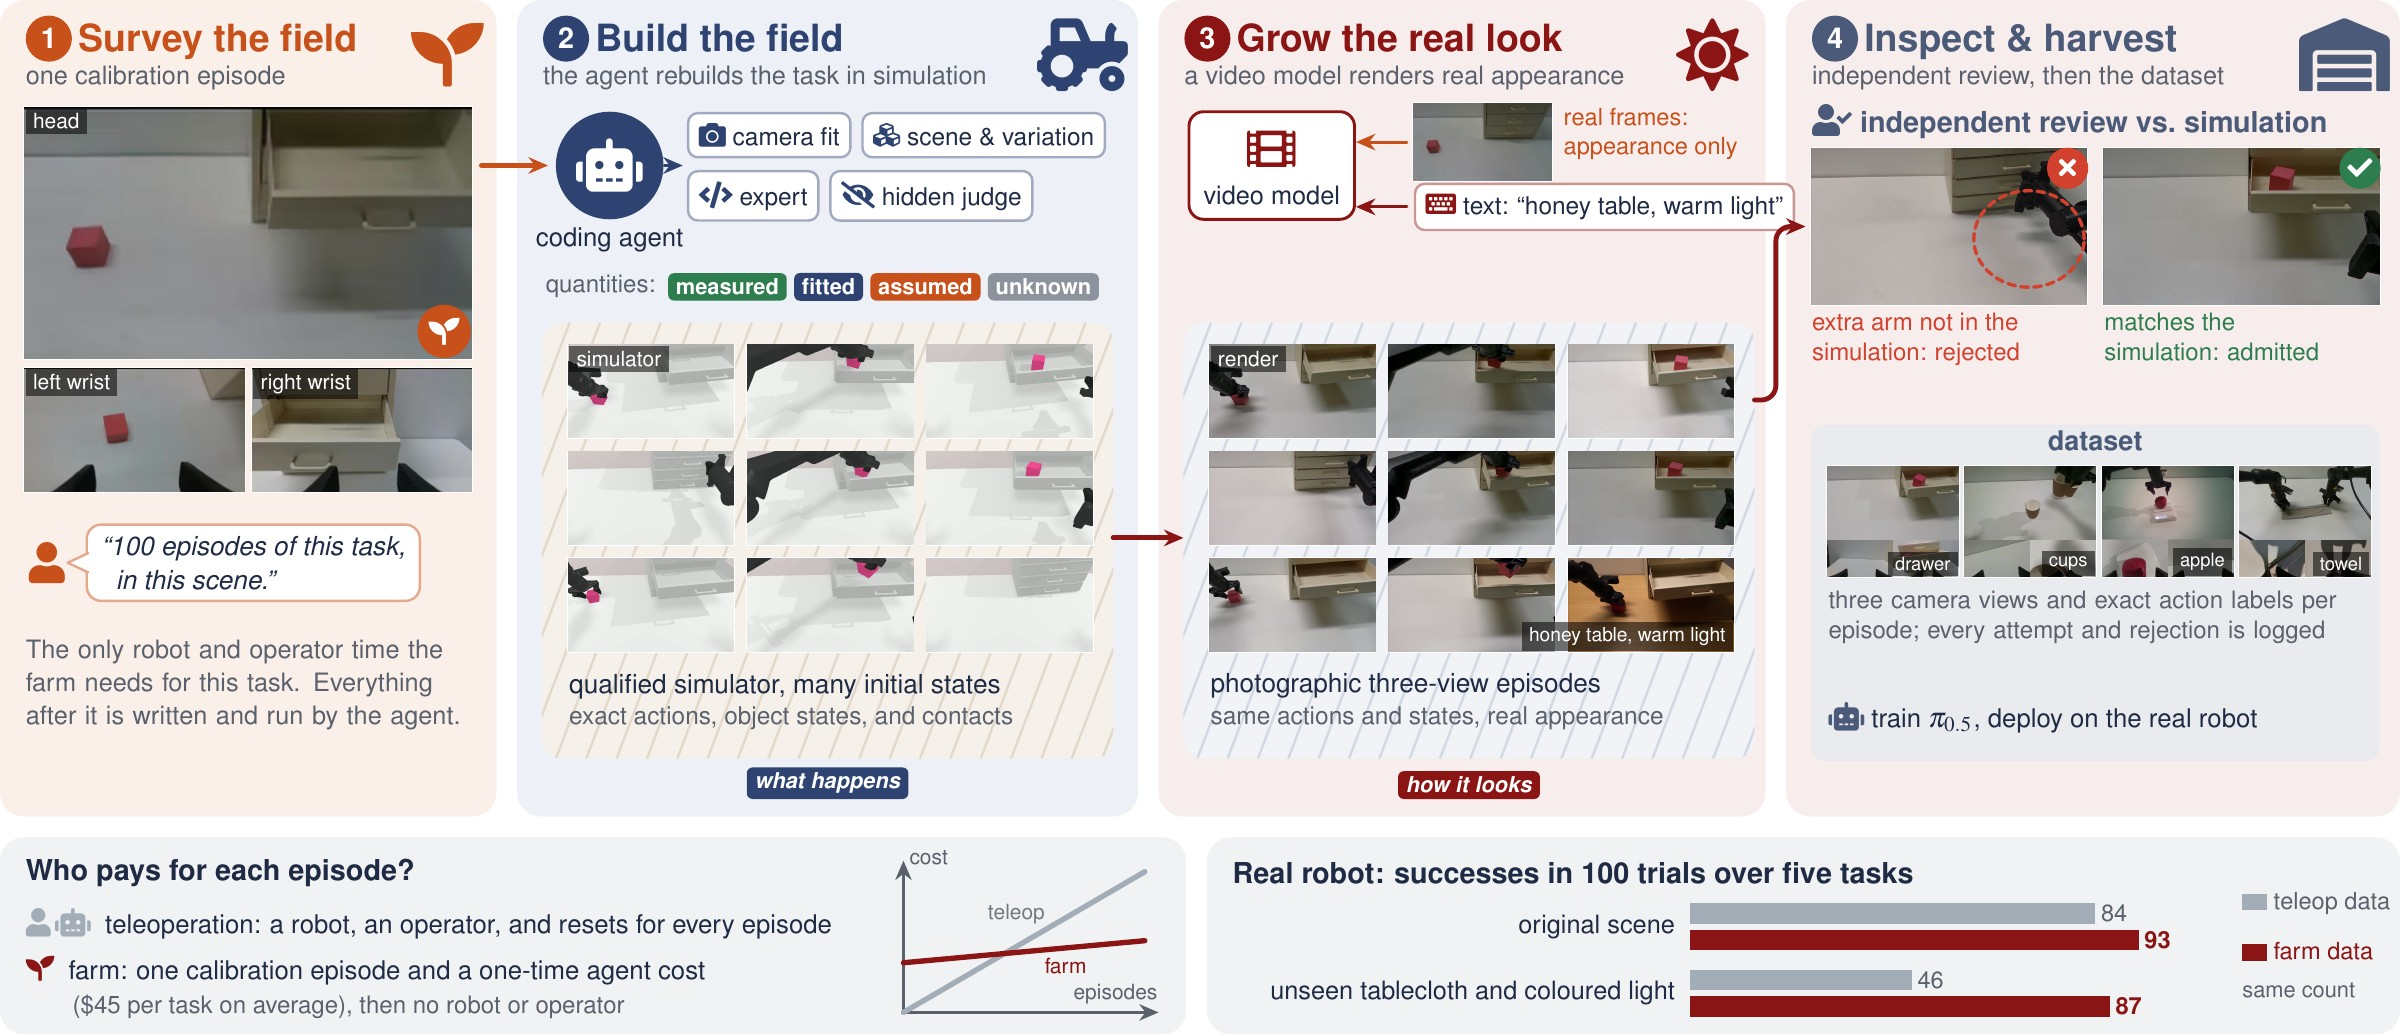
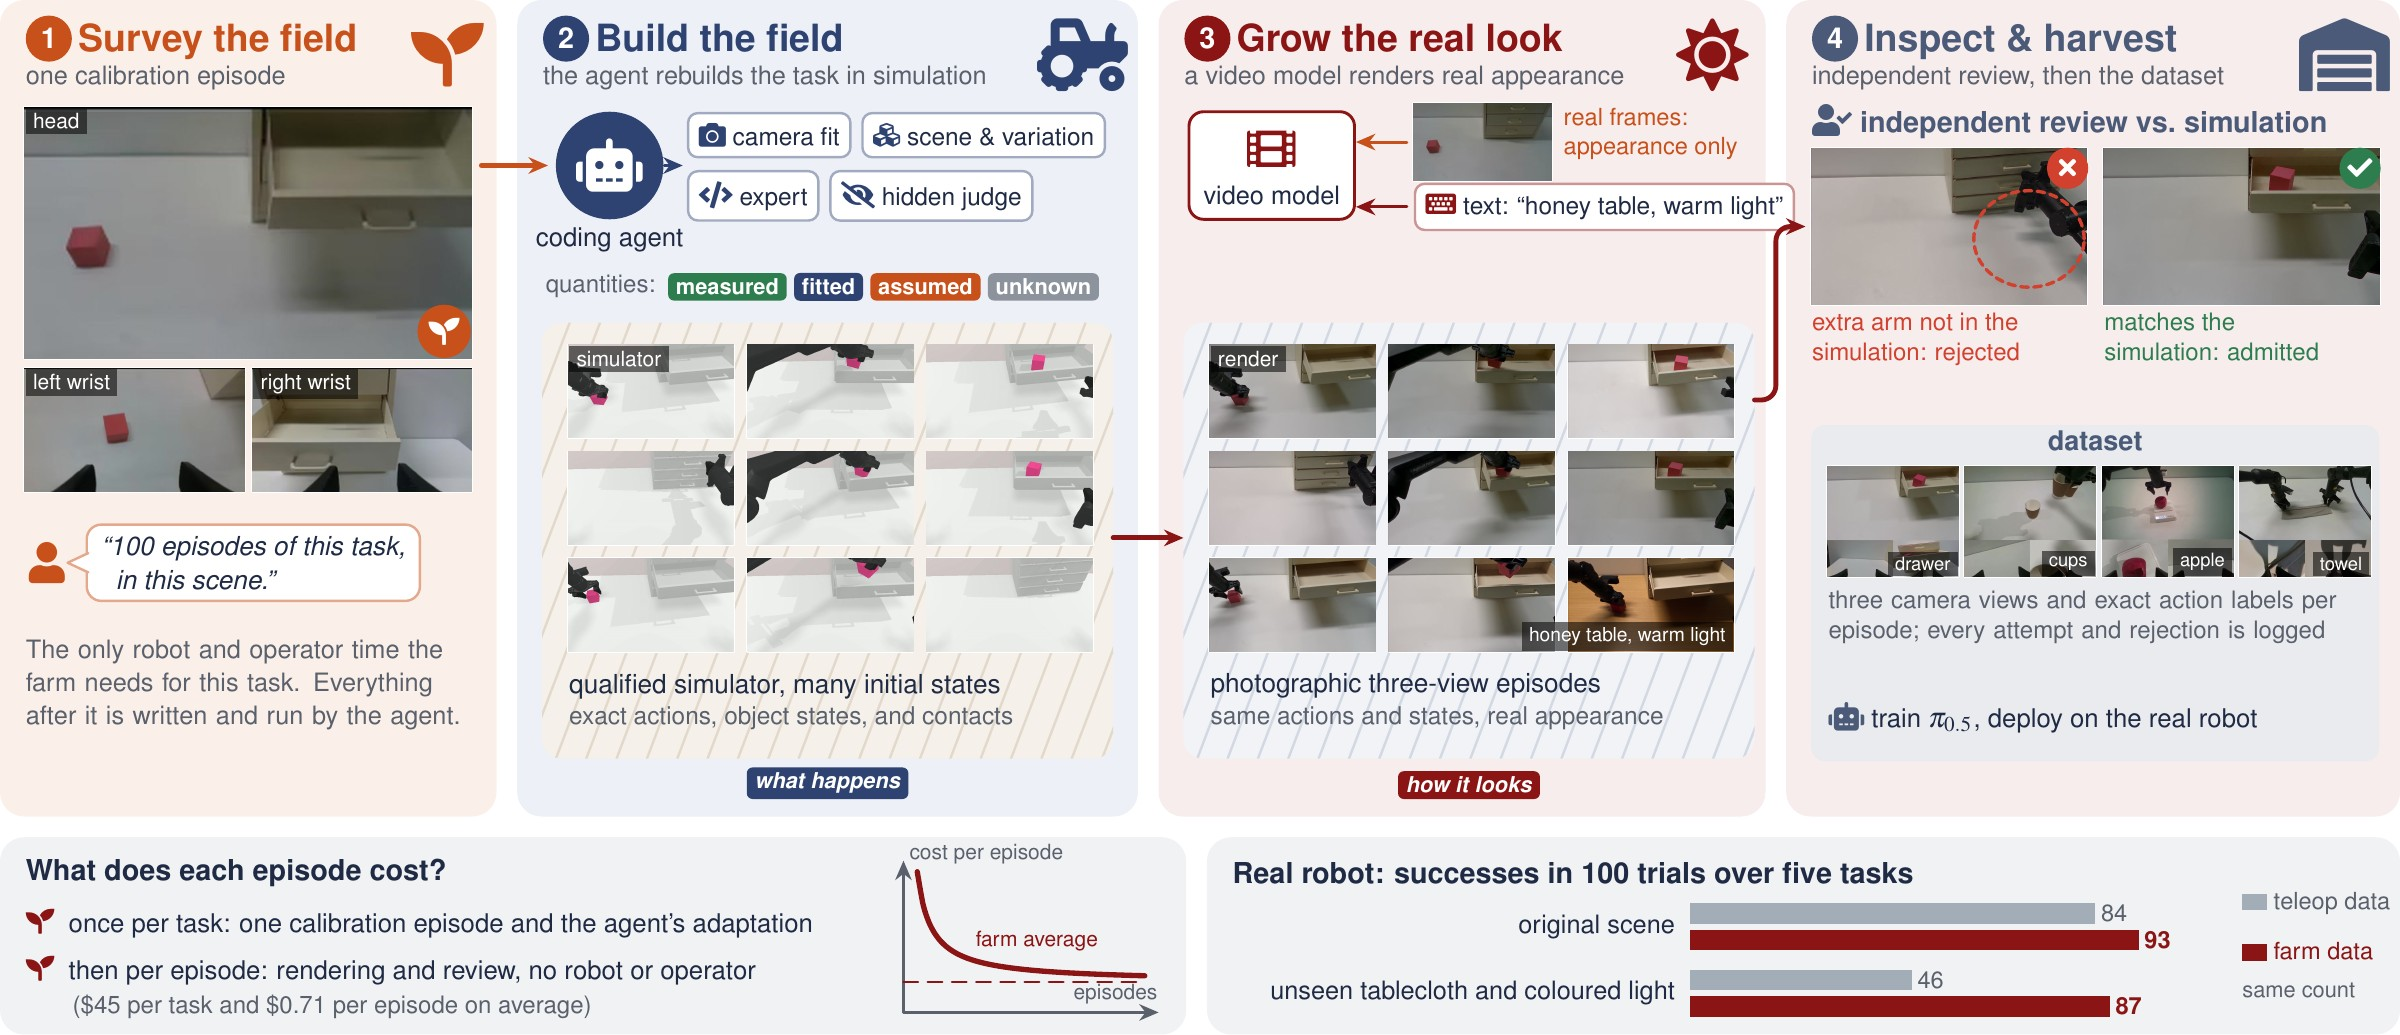
Abstract and cost section as in the paper (r2s2v-paper ba79d47)

Changed region(s): [[0.0, 0.8348, 0.3438, 0.9894], [0.375, 0.8657, 0.4688, 0.9894], [0.375, 0.8039, 0.4375, 0.8348]]

diff --git a/index.html b/index.html
@@ -371,30 +371,32 @@
   <div class="wrap">
     <div class="sec-head rv">
       <span class="kicker">Cost</span>
-      <h2>Pay once per task, not once per episode</h2>
-      <p>Teleoperation pays an operator for every episode and restages for every new tablecloth or light. The farm pays once to adapt a task, then only for rendering and review; a new appearance is a text change.</p>
+      <h2>Pay once per task, then only for rendering and review</h2>
+      <p>The farm pays once to adapt a task, with no person in the loop, then only for rendering and review of each episode; a new appearance is a text change. The farm's figures below are measured; the teleoperation figures are labour in North America and a quote from China.</p>
     </div>
     <div class="cost-cards">
       <div class="cc rv"><span class="cc-k">One-time, per task</span><span class="cc-v">$45</span><span class="cc-t">mean agent cost to adapt a task ($38&ndash;57 over five tasks), no human intervention</span></div>
-      <div class="cc rv"><span class="cc-k">Per farm episode</span><span class="cc-v">$1.27</span><span class="cc-t">mean marginal cost of an admitted episode: rendering, re-rendering, review</span></div>
-      <div class="cc muted rv"><span class="cc-k">Teleoperation, measured</span><span class="cc-v">$1.53</span><span class="cc-t">per episode from our collection log ($0.58&ndash;2.07); $2.09 with restaging for new appearance</span></div>
-      <div class="cc rv"><span class="cc-k">Farm pulls ahead after</span><span class="cc-v">&asymp;180</span><span class="cc-t">episodes of a task on average, or &asymp;60 when the data must cover new appearance</span></div>
+      <div class="cc rv"><span class="cc-k">Per farm episode</span><span class="cc-v">$0.71</span><span class="cc-t">mean marginal cost of an admitted episode ($0.18&ndash;1.27): rendering, re-rendering, review</span></div>
+      <div class="cc rv"><span class="cc-k">Average at 100 episodes</span><span class="cc-v">$1.16</span><span class="cc-t">per episode, one-time cost included ($0.57&ndash;1.84 over five tasks); $0.75 at 1,000. One hour of three-view data per task: $114, against a $117 quote in China and $290* of labour in North America</span></div>
+      <div class="cc rv"><span class="cc-k">New appearance</span><span class="cc-v">+$0</span><span class="cc-t">a new tablecloth or light is a text change in the render request: same cost per episode</span></div>
     </div>
     <div class="cost-row">
       <div class="cost-chart rv" id="cost-chart"><div class="cost-read" id="cost-read"></div></div>
       <div class="tcard rv">
         <table class="tbl">
-          <thead><tr><th>Task</th><th>One-time</th><th>Farm / ep.</th><th>Break-even<br>N=100</th><th>Teleop<br>original</th><th>Teleop<br>new look</th></tr></thead>
+          <thead><tr><th>Task</th><th>One-time</th><th>Farm / ep.</th><th>Avg. / ep.<br>N=100</th><th>Avg. / ep.<br>N=1,000</th><th>Per hour<br>1 h / task</th></tr></thead>
           <tbody>
-            <tr><td>Stack cups</td><td>44.26</td><td>1.56</td><td>2.02</td><td>1.87</td><td>2.43</td></tr>
-            <tr><td>Weigh apple</td><td>41.29</td><td>1.44</td><td>1.87</td><td>1.37</td><td>1.93</td></tr>
-            <tr><td>Beat drum</td><td>38.43</td><td>0.32</td><td>0.71</td><td>0.58</td><td>1.14</td></tr>
-            <tr><td>Pull drawer</td><td>43.61</td><td>0.75</td><td>1.20</td><td>1.74</td><td>2.30</td></tr>
-            <tr><td>Fold towel</td><td>57.02</td><td>2.29</td><td>2.89</td><td>2.07</td><td>2.63</td></tr>
-            <tr class="us"><td>Mean</td><td>44.92</td><td>1.27</td><td>1.74</td><td>1.53</td><td>2.09</td></tr>
+            <tr><td>Stack cups</td><td>44.26</td><td>0.86</td><td>1.30</td><td>0.90</td><td>115</td></tr>
+            <tr><td>Weigh apple</td><td>41.29</td><td>0.81</td><td>1.22</td><td>0.85</td><td>134</td></tr>
+            <tr><td>Beat drum</td><td>38.43</td><td>0.18</td><td>0.57</td><td>0.22</td><td>96</td></tr>
+            <tr><td>Pull drawer</td><td>43.61</td><td>0.43</td><td>0.86</td><td>0.47</td><td>89</td></tr>
+            <tr><td>Fold towel</td><td>57.02</td><td>1.27</td><td>1.84</td><td>1.33</td><td>137</td></tr>
+            <tr class="us"><td>Mean</td><td>44.92</td><td>0.71</td><td>1.16</td><td>0.75</td><td>114</td></tr>
+            <tr><td>Teleop., N. America*</td><td>&ndash;</td><td>2.86</td><td>2.86</td><td>2.86</td><td>290</td></tr>
+            <tr><td>Teleop., China, quote</td><td>&ndash;</td><td>1.16</td><td>1.16</td><td>1.16</td><td>117</td></tr>
           </tbody>
         </table>
-        <p class="fine">USD. Break-even: teleoperation cost per episode above which the farm is cheaper for 100 episodes. In the original scene the farm is cheaper for 100 episodes on pull drawer, and for 1,000 episodes also on stack cups and beat drum. With new appearance (an assumed restaging of 3&nbsp;min every five episodes), it is cheaper for 100 episodes on every task but fold towel, and for 1,000 on all five.</p>
+        <p class="fine">USD. One-time: agent cost of adapting the task, from the calibration episode to 100 qualified simulated episodes and a render contract, at standard API pricing. Farm / ep.: H3 rendering on rented GPUs, re-rendering of flagged chunks, and independent review per admitted episode. Avg. / ep.: one-time cost spread over N episodes plus the per-episode cost; it falls towards the per-episode cost, which is dominated by rendering. Per hour, 1 h / task: the cost of collecting one hour of synchronized three-view data for a task, one-time cost included. Teleop., N. America: *estimated with Claude Opus 5.5, the labour of teleoperated collection (operator, supervision and review, post-processing; no robot, venue, or setup), $190&ndash;520 per usable hour across our assumptions. Teleop., China: a full-service quote for custom data, about RMB 800 per hour. Both per episode at the farm's mean length.</p>
       </div>
     </div>
   </div>
@@ -422,7 +424,7 @@
     <p class="cap rv" style="margin-top:-16px;margin-bottom:34px"><b>Following the simulation in every view.</b> Red boxes mark views that contradict the simulator or the other views of the same frame.</p>
     <details class="abstract rv">
       <summary>Abstract</summary>
-      <p>Teleoperation remains the default way to collect robot demonstrations, but every episode costs robot and operator time, and every new task starts from scratch. We ask whether a coding agent can take over the teleoperator's job. In our data farm, DataFarm, the agent receives a data request and one calibration episode of the robot in the target scene and rebuilds the task in simulation: it writes the scene, an expert controller, and a success judge. The simulator supplies exact actions, and a video model conditioned on real images renders each rollout as photographic video, generating all camera views together so that they stay consistent. The output is real-ready data: synchronized views from the robot's cameras, labelled with the robot's own actions, on which a policy is trained directly and deployed on the real robot. Because agents write both the expert and its checks, and the video model may alter the scene, the farm separates certification from production: a judge hidden from the expert scores it on held-out initial states, and independent reviewers compare every rendered episode with its simulated state before admission. On five real-robot tasks, policies trained only on farm data match policies trained on as many teleoperated episodes (93 vs. 84 successes in 100 trials), and under an unseen tablecloth and coloured light they keep 87 successes where the teleoperation-trained policies fall to 46. Adapting a task is fully automatic and costs $45 of API usage on average; for 100 episodes, the farm is cheaper than teleoperation once a teleoperated episode costs more than $0.71&ndash;2.89.</p>
+      <p>Teleoperation remains the default way to collect robot demonstrations, but every episode costs robot and operator time, and every new task starts from scratch. We ask whether a coding agent can take over the teleoperator's job. In our DataFarm, the agent receives a data request and one calibration episode of the robot in the target scene and rebuilds the task in simulation: it writes the scene, an expert controller, and a success judge. The simulator supplies exact actions, and a video model conditioned on real images renders each rollout as photographic video, generating all camera views together consistently. The output is real-ready data: synchronized camera views labelled with the robot's actions, on which a policy is trained directly and deployed on the real robot. Independent judges certify the expert and every rendered episode before admission. On five real-robot tasks, policies trained only on farm data match policies trained on as many teleoperated episodes (93 vs. 84 successes in 100 trials), and under an unseen tablecloth and coloured light they keep 87 successes where the teleoperation-trained policies fall to 46. Adapting a task is fully automatic and costs $45 of API usage on average, paid once per task; every further episode costs $0.71 on average for rendering and review, with no robot or operator. One hour of three-view data for a task costs $114 on average, one-time cost included, about the same as a quote of $117 for teleoperation in China and below $290 in labour alone in North America.</p>
     </details>
   </div>
 </section>
@@ -463,7 +465,7 @@
     "cups": "Two cups are stacked and one is still to be placed. Called directly on one canvas, the video model shows a finished stack and cups lying on their side; per camera, extra grippers and other stacks appear. DataFarm agrees with the simulator in every view."
   },
   "appearance": ["light-wood table, warm lamp light", "blue felt, cool light", "marble table", "brushed steel"],
-  "cost": {"adapt": 44.92, "calib": 1.53, "m": 1.27, "teleop": 1.53, "teleopNew": 2.09, "nmax": 400}
+  "cost": {"adapt": [44.26, 41.29, 38.43, 43.61, 57.02], "m": [0.86, 0.81, 0.18, 0.43, 1.27], "nmin": 10, "nmax": 1000, "teleop": 2.86, "teleopCn": 1.16}
 }</script>
 </main>
 

diff --git a/static/js/site.js b/static/js/site.js
@@ -255,41 +255,48 @@ function setupChart(data) {
   } else show('ood');
 }
 
-/* ---------------- cost: cumulative cost for N episodes of one task (means over five tasks) ---------------- */
+/* ---------------- cost: farm cost per episode for N episodes of one task (band = range over tasks; flat lines = teleoperation estimates) ---------------- */
 function setupCost(data) {
   const host = $('#cost-chart'), read = $('#cost-read');
   if (!host) return;
-  const c = data.cost, W = 640, H = 380, L = 56, R = 18, T = 20, B = 46, N = c.nmax;
-  const farm = n => c.adapt + c.calib + c.m * n, tel = n => c.teleop * n, teln = n => c.teleopNew * n;
-  const ymax = Math.ceil(teln(N) / 100) * 100;
-  const X = n => L + (W - L - R) * n / N, Y = v => T + (H - T - B) * (1 - v / ymax);
-  const svg = svgEl('svg', { viewBox: `0 0 ${W} ${H}`, role: 'img', 'aria-label': 'Cumulative cost of N episodes' });
-  for (let v = 0; v <= ymax; v += 200) {
+  const c = data.cost, W = 640, H = 380, L = 56, R = 18, T = 20, B = 46, N0 = c.nmin, N1 = c.nmax, K = c.adapt.length;
+  const per = (i, n) => c.adapt[i] / n + c.m[i];
+  const mean = n => c.adapt.reduce((s, _, i) => s + per(i, n), 0) / K;
+  const lo = n => Math.min(...c.adapt.map((_, i) => per(i, n))), hi = n => Math.max(...c.adapt.map((_, i) => per(i, n)));
+  const mMean = c.m.reduce((s, v) => s + v, 0) / K, ymax = Math.ceil(hi(N0));
+  const X = n => L + (W - L - R) * Math.log10(n / N0) / Math.log10(N1 / N0), Y = v => T + (H - T - B) * (1 - v / ymax);
+  const svg = svgEl('svg', { viewBox: `0 0 ${W} ${H}`, role: 'img', 'aria-label': 'Farm cost per episode for N episodes of one task, against two teleoperation estimates' });
+  for (let v = 0; v <= ymax; v += 1) {
     svg.appendChild(svgEl('line', { x1: L, x2: W - R, y1: Y(v), y2: Y(v), stroke: 'rgba(255,255,255,0.07)' }));
     svg.appendChild(svgEl('text', { x: L - 8, y: Y(v) + 4, 'text-anchor': 'end', 'font-size': 12, fill: '#7D8899' }, '$' + v));
   }
-  for (let n = 0; n <= N; n += 100) svg.appendChild(svgEl('text', { x: X(n), y: H - B + 18, 'text-anchor': 'middle', 'font-size': 12, fill: '#7D8899' }, n));
-  svg.appendChild(svgEl('text', { x: (L + W - R) / 2, y: H - 8, 'text-anchor': 'middle', 'font-size': 12, fill: '#9AA5B4' }, 'episodes of one task'));
-  const line = (f, col, dash, w) => svg.appendChild(svgEl('line', { x1: X(0), y1: Y(f(0)), x2: X(N), y2: Y(f(N)), stroke: col, 'stroke-width': w, 'stroke-dasharray': dash || '', 'stroke-linecap': 'round' }));
-  line(teln, '#A3ADB8', '6 6', 2.2); line(tel, '#A3ADB8', '', 2.6); line(farm, '#E26A58', '', 3.4);
-  const lab = (n, f, t, col, dy) => svg.appendChild(svgEl('text', { x: X(n) - 6, y: Y(f(n)) + dy, 'text-anchor': 'end', 'font-size': 12.5, 'font-weight': 700, fill: col }, t));
-  lab(N, teln, 'teleoperation, new appearance', '#C3CBD5', -10); lab(N, tel, 'teleoperation', '#C3CBD5', -10); lab(N, farm, 'DataFarm', '#FF8A78', 22);
-  // crossings
-  [[c.teleopNew, '≈' + Math.round((c.adapt + c.calib) / (c.teleopNew - c.m) / 10) * 10], [c.teleop, '≈' + Math.round((c.adapt + c.calib) / (c.teleop - c.m) / 10) * 10]].forEach(([rate, t]) => {
-    const n = (c.adapt + c.calib) / (rate - c.m);
-    svg.appendChild(svgEl('line', { x1: X(n), x2: X(n), y1: Y(farm(n)), y2: Y(0), stroke: 'rgba(226,106,88,0.5)', 'stroke-dasharray': '3 4' }));
-    svg.appendChild(svgEl('circle', { cx: X(n), cy: Y(farm(n)), r: 6, fill: '#0A0E16', stroke: '#E26A58', 'stroke-width': 2.5 }));
-    svg.appendChild(svgEl('text', { x: X(n) + 9, y: Y(farm(n)) + 18, 'font-size': 12.5, 'font-weight': 700, fill: '#FF8A78' }, t + ' episodes'));
+  [10, 20, 50, 100, 200, 500, 1000].forEach(n => svg.appendChild(svgEl('text', { x: X(n), y: H - B + 18, 'text-anchor': 'middle', 'font-size': 12, fill: '#7D8899' }, n.toLocaleString('en-US'))));
+  svg.appendChild(svgEl('text', { x: (L + W - R) / 2, y: H - 8, 'text-anchor': 'middle', 'font-size': 12, fill: '#9AA5B4' }, 'episodes of one task (log scale)'));
+  const ns = []; for (let k = 0; k <= 60; k++) ns.push(N0 * Math.pow(N1 / N0, k / 60));
+  const pts = (f, arr) => arr.map(n => `${X(n).toFixed(1)},${Y(f(n)).toFixed(1)}`).join(' ');
+  svg.appendChild(svgEl('polygon', { points: pts(hi, ns) + ' ' + pts(lo, ns.slice().reverse()), fill: 'rgba(226,106,88,0.16)' }));
+  svg.appendChild(svgEl('line', { x1: X(N0), x2: X(N1), y1: Y(mMean), y2: Y(mMean), stroke: '#A3ADB8', 'stroke-dasharray': '6 6', 'stroke-width': 1.6 }));
+  svg.appendChild(svgEl('text', { x: X(N1) - 6, y: Y(mMean) + 18, 'text-anchor': 'end', 'font-size': 12.5, 'font-weight': 700, fill: '#C3CBD5' }, `per-episode cost $${mMean.toFixed(2)}`));
+  svg.appendChild(svgEl('line', { x1: X(N0), x2: X(N1), y1: Y(c.teleop), y2: Y(c.teleop), stroke: '#E8EDF4', 'stroke-dasharray': '10 4 2 4', 'stroke-width': 1.8 }));
+  svg.appendChild(svgEl('text', { x: X(N1) - 6, y: Y(c.teleop) - 8, 'text-anchor': 'end', 'font-size': 12.5, 'font-weight': 700, fill: '#E8EDF4' }, `teleoperation labour, North America*: $${c.teleop.toFixed(2)}`));
+  svg.appendChild(svgEl('line', { x1: X(N0), x2: X(N1), y1: Y(c.teleopCn), y2: Y(c.teleopCn), stroke: '#F0B35A', 'stroke-dasharray': '10 4 2 4', 'stroke-width': 1.8 }));
+  svg.appendChild(svgEl('text', { x: X(N0) + 6, y: Y(c.teleopCn) - 8, 'font-size': 12.5, 'font-weight': 700, fill: '#F0B35A' }, `teleoperation quote, China: $${c.teleopCn.toFixed(2)}`));
+  svg.appendChild(svgEl('polyline', { points: pts(mean, ns), fill: 'none', stroke: '#E26A58', 'stroke-width': 3.4, 'stroke-linecap': 'round' }));
+  svg.appendChild(svgEl('text', { x: X(14), y: Y(mean(14)) - 12, 'font-size': 12.5, 'font-weight': 700, fill: '#FF8A78' }, 'DataFarm, average per episode'));
+  [100, 1000].forEach(n => {
+    svg.appendChild(svgEl('line', { x1: X(n), x2: X(n), y1: Y(mean(n)), y2: Y(0), stroke: 'rgba(226,106,88,0.5)', 'stroke-dasharray': '3 4' }));
+    svg.appendChild(svgEl('circle', { cx: X(n), cy: Y(mean(n)), r: 6, fill: '#0A0E16', stroke: '#E26A58', 'stroke-width': 2.5 }));
+    svg.appendChild(svgEl('text', { x: X(n) + (n === N1 ? -10 : 9), y: n === N1 ? Y(c.teleopCn) - 7 : Y(mean(n)) - 12, 'text-anchor': n === N1 ? 'end' : 'start', 'font-size': 12.5, 'font-weight': 700, fill: '#FF8A78' }, `$${mean(n).toFixed(2)} at ${n.toLocaleString('en-US')}`));
   });
   const cursor = svgEl('line', { y1: T, y2: H - B, stroke: 'rgba(255,255,255,0.35)', opacity: 0 });
   svg.appendChild(cursor);
   host.insertBefore(svg, read);
   svg.addEventListener('pointermove', e => {
     const r = svg.getBoundingClientRect(), px = (e.clientX - r.left) / r.width * W;
-    const n = Math.round(Math.min(N, Math.max(1, (px - L) / (W - L - R) * N)));
+    const f = Math.min(1, Math.max(0, (px - L) / (W - L - R))), n = Math.round(N0 * Math.pow(N1 / N0, f));
     cursor.setAttribute('x1', X(n)); cursor.setAttribute('x2', X(n)); cursor.setAttribute('opacity', 1);
-    read.innerHTML = `<b>${n} episodes</b><br>DataFarm $${farm(n).toFixed(0)} &middot; teleop $${tel(n).toFixed(0)} &middot; new look $${teln(n).toFixed(0)}`;
-    read.style.left = Math.min(r.width - 230, Math.max(8, e.clientX - r.left + 12)) + 'px'; read.style.top = '14px';
+    read.innerHTML = `<b>${n.toLocaleString('en-US')} episodes</b><br>$${mean(n).toFixed(2)} per episode on average ($${lo(n).toFixed(2)}&ndash;${hi(n).toFixed(2)}) &middot; $${(mean(n) * n).toFixed(0)} in total`;
+    read.style.left = Math.min(r.width - 300, Math.max(8, e.clientX - r.left + 12)) + 'px'; read.style.top = '14px';
     read.classList.add('on');
   });
   svg.addEventListener('pointerleave', () => { read.classList.remove('on'); cursor.setAttribute('opacity', 0); });
